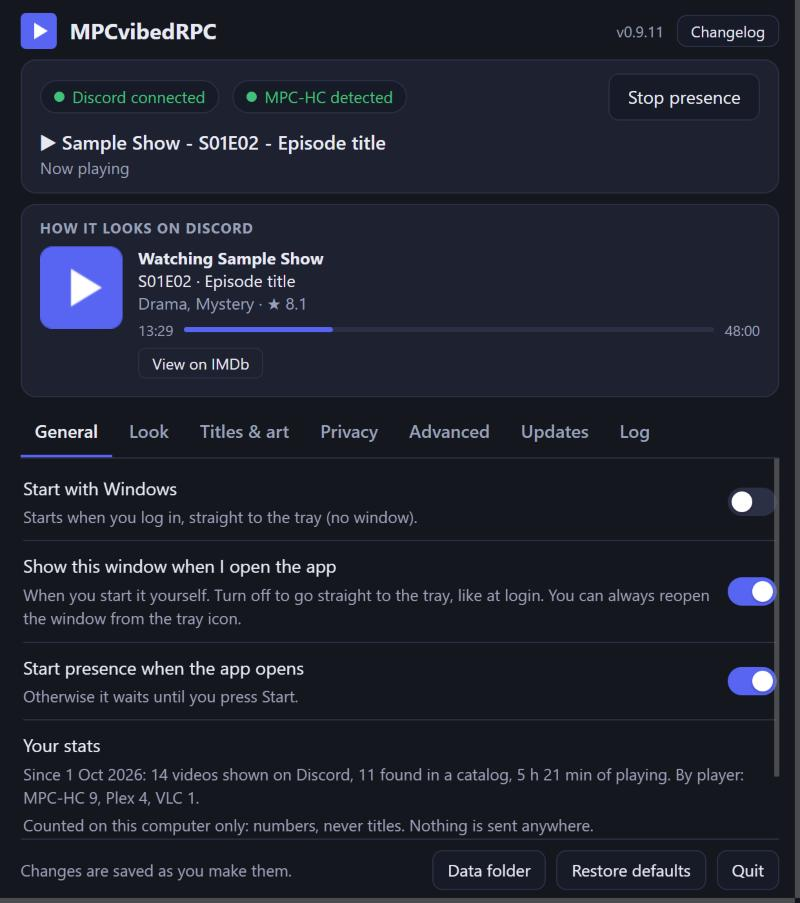
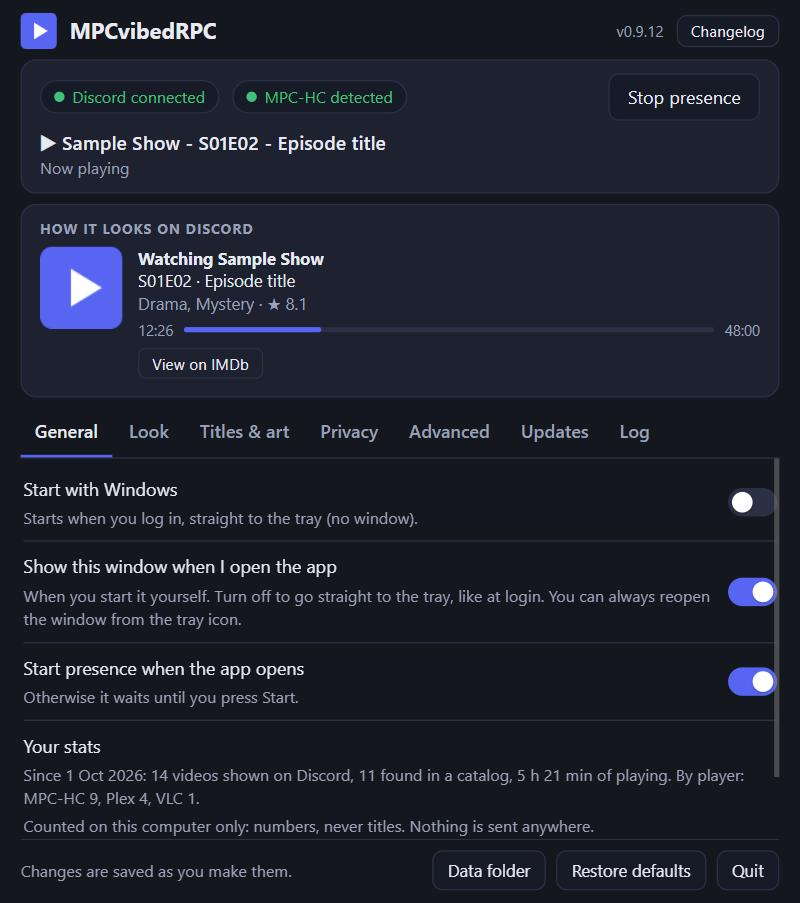
0.9.12: update notes laid out, and a check at start (#20)
- The Updates tab shows only the release's own notes (no title, no Get it / Good to
  know sections) and lays them out: paragraphs, bullet points, bold, code. Built from
  text nodes, never as HTML.
- The first update check runs 5 seconds after start (was 20) and is retried a minute
  later if it fails (a copy started at login may have no network yet); the window's
  status poll now carries a found update, so an open window shows it at once.

diff --git a/internal/assets/ui.html b/internal/assets/ui.html
@@ -60,6 +60,8 @@
   .field label.line { display: flex; gap: 10px; align-items: center; justify-content: space-between; }
   .help { color: var(--muted); font-size: 12.5px; margin-top: 3px; }
   .help.bad { color: var(--bad); }
+  .notes p { margin: 6px 0; } .notes ul { margin: 4px 0 8px; padding-left: 20px; } .notes li { margin: 3px 0; }
+  .notes code { font-family: Consolas, ui-monospace, monospace; font-size: 12px; background: var(--field); border: 1px solid var(--line); border-radius: 4px; padding: 0 4px; }
   input[type=text], input[type=number], input[type=password], select, textarea {
     font: inherit; color: var(--text); background: var(--field); border: 1px solid var(--line); border-radius: 8px; padding: 6px 9px; width: 100%; max-width: 100%;
   }
@@ -527,6 +529,7 @@
     const t = $('toggle'); t.textContent = s.running ? 'Stop presence' : 'Start presence'; t.className = s.running ? '' : 'primary';
     $('mpcHelp').classList.toggle('hidden', !(s.running && !s.mpc));
     const hint = $('playerHint'); hint.textContent = s.hint || ''; hint.classList.toggle('hidden', !s.hint);
+    if (s.update && s.update.newer && s.update.latest !== updShown && $('installUpd').disabled === false) showUpdate(s.update, false);
   }
 
   function closeWindow() { document.body.innerHTML = '<main><p>MPCvibedRPC has quit. You can close this window.</p></main>'; try { window.close(); } catch (_) {} }
@@ -576,6 +579,50 @@
       if (r.settingsChanged) { try { fill(await api('state')); } catch (_) {} } // the mpv name or VLC's password may have been taken over
     } catch (e) { $('webMsg').textContent = e.message; }
   };
+  // Release notes as GitHub writes them (Markdown), shown with their paragraphs, bullet points, bold and code. Built
+  // from text nodes only, so nothing in the notes can act as HTML.
+  function notesOf(md) {
+    const box = el('div', { className: 'notes' });
+    const inline = (text) => {
+      const out = el('span');
+      text.replace(/\[([^\]]+)\]\([^)]*\)/g, '$1').split(/(\*\*[^*]+\*\*|`[^`]+`)/).forEach((part) => {
+        if (/^\*\*[^*]+\*\*$/.test(part)) out.append(el('b', { textContent: part.slice(2, -2) }));
+        else if (/^`[^`]+`$/.test(part)) out.append(el('code', { textContent: part.slice(1, -1) }));
+        else if (part) out.append(document.createTextNode(part));
+      });
+      return out;
+    };
+    let list = null, para = null;
+    for (const raw of String(md || '').replace(/\r\n/g, '\n').split('\n')) {
+      const line = raw.trim();
+      const item = /^[-*] +(.*)$/.exec(line);
+      if (!line) { list = para = null; continue; }
+      if (item) {
+        if (!list) { list = el('ul'); box.append(list); para = null; }
+        list.append(el('li', {}, inline(item[1])));
+        continue;
+      }
+      const head = /^#{1,6} +(.*)$/.exec(line);
+      if (head) { list = para = null; box.append(el('p', {}, el('b', { textContent: head[1] }))); continue; }
+      if (list && /^\s{2,}/.test(raw)) { list.lastChild.append(document.createTextNode(' '), inline(line)); continue; }
+      list = null;
+      if (!para) { para = el('p'); box.append(para); } else para.append(document.createTextNode(' '));
+      para.append(inline(line));
+    }
+    return box;
+  }
+  function setNotes(md) { const n = $('updNotes'); n.textContent = ''; if (md) n.append(notesOf(md)); }
+  // A newer version: shown once per version, whether the window found it (Check now) or the program did in the
+  // background (at start, then daily) while the window is open.
+  let updShown = '';
+  function showUpdate(u, explain) {
+    if (!u || !u.newer) return;
+    updShown = u.latest;
+    $('updText').textContent = 'Version ' + u.latest + ' is available (you have ' + u.current + ').';
+    setNotes(u.notes);
+    offerUpdate(u, explain);
+    flagUpdate();
+  }
   $('checkUpd').onclick = async () => {
     $('updText').textContent = 'Checking…'; $('installUpd').classList.add('hidden'); $('pageUpd').classList.add('hidden'); $('updNotes').textContent = '';
     try {
@@ -583,7 +630,7 @@
       const u = await api('update-check', {});
       if (!u.configured) $('updText').textContent = 'Enter an update source below first.';
       else if (u.error) $('updText').textContent = u.error;
-      else if (u.newer) { $('updText').textContent = 'Version ' + u.latest + ' is available (you have ' + u.current + ').'; $('updNotes').textContent = u.notes || ''; offerUpdate(u, true); }
+      else if (u.newer) showUpdate(u, true);
       else $('updText').textContent = 'You are up to date (' + u.current + ').';
     } catch (e) { $('updText').textContent = 'Could not check: ' + e.message; }
   };
@@ -619,7 +666,7 @@
   };
   $('quit').onclick = async () => { if (await ask('Quit MPCvibedRPC?', 'Discord will stop showing what you are watching' + (osText() ? (model.tray ? ', and the menu bar icon will be removed.' : ', and the program will close.') : ', and the tray icon will be removed.'), 'Quit', true)) { try { await api('quit', {}); } catch (_) {} closeWindow(); } };
 
-  api('state').then((m) => { fill(m); paint(m.status); if (m.app.seenVersion !== m.version) showNews(m.version); if (m.update && m.update.newer) { $('updText').textContent = 'Version ' + m.update.latest + ' is available.'; offerUpdate(m.update, false); flagUpdate(); } })
+  api('state').then((m) => { fill(m); paint(m.status); if (m.app.seenVersion !== m.version) showNews(m.version); showUpdate(m.update, false); })
     .catch((e) => { document.body.innerHTML = '<main><p>Could not reach the program: ' + e.message + '</p></main>'; });
   setInterval(poll, 1000); setInterval(pollLog, 3000);
 })();

diff --git a/cmd/mpcvibedrpc/main.go b/cmd/mpcvibedrpc/main.go
@@ -28,7 +28,7 @@ import (
 )
 
 // version is set at build time (-ldflags "-X main.version=...").
-var version = "0.9.11"
+var version = "0.9.12"
 
 const preferredPort = 47654
 
@@ -266,6 +266,19 @@ func run() error {
 		}
 	}
 
+	// statusNow is what the window polls: the engine's status, and a newer version once a check has found one.
+	type status struct {
+		engine.Status
+		Update *updater.Info `json:"update,omitempty"`
+	}
+	statusNow := func() status {
+		s := status{Status: eng.Status()}
+		if u := getUpdate(); u != nil && u.Newer {
+			s.Update = u
+		}
+		return s
+	}
+
 	quit := func() {
 		quitOnce.Do(func() {
 			go func() {
@@ -322,7 +335,7 @@ func run() error {
 
 	handlers := map[string]server.Handler{
 		"state":  {Get: true, Fn: func(*jsonx.Obj) (any, error) { return fullState(), nil }},
-		"status": {Get: true, Fn: func(*jsonx.Obj) (any, error) { return eng.Status(), nil }},
+		"status": {Get: true, Fn: func(*jsonx.Obj) (any, error) { return statusNow(), nil }},
 		"log":    {Get: true, Fn: func(*jsonx.Obj) (any, error) { return map[string]any{"lines": lg.last(200)}, nil }},
 		"diagnostics": {Get: true, Fn: func(*jsonx.Obj) (any, error) {
 			return map[string]any{"text": diag.Report(diag.Input{
@@ -532,9 +545,15 @@ func run() error {
 		openWindow()
 	}
 
-	time.AfterFunc(20*time.Second, func() {
+	// Look for a new version shortly after starting (an open window shows it as soon as it is known), then daily. A copy
+	// started at login may have no network yet, so a failed first check is tried again a minute later.
+	time.AfterFunc(5*time.Second, func() {
 		if _, err := checkUpdates(false); err != nil {
-			log("WARN", "Update check failed: "+err.Error())
+			time.AfterFunc(time.Minute, func() {
+				if _, err := checkUpdates(false); err != nil {
+					log("WARN", "Update check failed: "+err.Error())
+				}
+			})
 		}
 	})
 	go func() {

diff --git a/internal/updater/updater.go b/internal/updater/updater.go
@@ -218,7 +218,7 @@ func Check(client *http.Client, repo, current string) (*Info, error) {
 		latest = latest[1:]
 	}
 	info := &Info{Configured: true, Current: current, Latest: latest, Newer: Compare(current, latest) < 0, Page: rel.HTMLURL}
-	notes := []rune(rel.Body)
+	notes := []rune(whatsNew(rel.Body))
 	if len(notes) > 1500 {
 		notes = notes[:1500]
 	}
@@ -332,4 +332,30 @@ func SwapAndRestart(exe, next string, start func(exe string, args ...string) err
 func CleanupOld(exe string) {
 	_ = os.Remove(exe + ".old")
 	_ = os.Remove(exe + ".new")
+}
+
+// whatsNew is the part of a release's notes about the release itself, for the Updates tab: without the title line,
+// and up to the first "###" section (how to get it, notes for every release) or quoted banner. Notes without that
+// shape are kept whole.
+func whatsNew(body string) string {
+	lines := strings.Split(strings.ReplaceAll(body, "\r\n", "\n"), "\n")
+	var out []string
+	titled := false
+	for _, l := range lines {
+		t := strings.TrimSpace(l)
+		if !titled && t != "" {
+			titled = true
+			if strings.HasPrefix(t, "# ") || strings.HasPrefix(t, "## ") {
+				continue
+			}
+		}
+		if strings.HasPrefix(t, "### ") || strings.HasPrefix(t, "> ") {
+			break
+		}
+		out = append(out, l)
+	}
+	if s := strings.TrimSpace(strings.Join(out, "\n")); s != "" {
+		return s
+	}
+	return strings.TrimSpace(body)
 }

diff --git a/tools/mkrsrc/main.go b/tools/mkrsrc/main.go
@@ -2,7 +2,7 @@
 // finished MPCvibedRPC.exe has an icon in Explorer and proper details in Task Manager. The Go linker picks the
 // .syso up automatically when it sits next to the main package. Standard library only.
 //
-//	go run ./tools/mkrsrc -icon internal/assets/icon.ico -version 0.9.11 -out cmd/mpcvibedrpc/rsrc_windows_amd64.syso
+//	go run ./tools/mkrsrc -icon internal/assets/icon.ico -version 0.9.12 -out cmd/mpcvibedrpc/rsrc_windows_amd64.syso
 package main
 
 import (
@@ -20,7 +20,7 @@ var le = binary.LittleEndian
 
 func main() {
 	icon := flag.String("icon", "internal/assets/icon.ico", "icon file")
-	version := flag.String("version", "0.0.0", "version, e.g. 0.9.11")
+	version := flag.String("version", "0.0.0", "version, e.g. 0.9.12")
 	out := flag.String("out", "rsrc_windows_amd64.syso", "output object file")
 	flag.Parse()
 	ico, err := os.ReadFile(*icon)

diff --git a/internal/store/store.go b/internal/store/store.go
@@ -48,7 +48,7 @@ func dataDirNamed(name string) string {
 type App struct {
 	AutoStart     bool   `json:"autoStart"`     // run at Windows login (the registry entry is the source of truth; this mirrors it)
 	StartPresence bool   `json:"startPresence"` // begin sending presence as soon as the app opens
-	CheckUpdates  bool   `json:"checkUpdates"`  // look for a newer release now and then
+	CheckUpdates  bool   `json:"checkUpdates"`  // look for a newer release at start, then daily
 	UpdateRepo    string `json:"updateRepo"`    // "owner/repo" on GitHub that publishes releases with MPCvibedRPC.exe
 	WelcomeSeen   bool   `json:"welcomeSeen"`   // the first-run welcome card was dismissed (existing installs count as having seen it)
 	OpenWindow    bool   `json:"openWindow"`    // show the window when the program is started by hand (it always starts in the tray at login)

diff --git a/internal/updater/updater_test.go b/internal/updater/updater_test.go
@@ -237,3 +237,18 @@ func TestCheckFallsBackToTheWebsite(t *testing.T) {
 		t.Fatalf("both refused: %v", err)
 	}
 }
+
+func TestWhatsNew(t *testing.T) {
+	notes := "## MPCvibedRPC 9.9.9\r\n\r\n**Sample feature.**\r\n\r\n- One thing.\r\n- Another.\r\n\r\n### Get it\r\n- Download it.\r\n\r\n### Good to know\r\n- More."
+	if got := whatsNew(notes); got != "**Sample feature.**\n\n- One thing.\n- Another." {
+		t.Errorf("got %q", got)
+	}
+	if got := whatsNew("## Title\n\nText.\n\n> **Banner.** Words.\n\n### Get it\n"); got != "Text." {
+		t.Errorf("banner: %q", got)
+	}
+	for _, plain := range []string{"test release", "Line one\nLine two", "### Only a section"} {
+		if got := whatsNew(plain); got != plain {
+			t.Errorf("%q became %q", plain, got)
+		}
+	}
+}

diff --git a/docs/development.md b/docs/development.md
@@ -6,8 +6,8 @@ How MPCvibedRPC is built, tested and released. For using it, see the [README](..
 The program is written in Go and uses only the standard library: one small file (about 8 MB, a few MB of memory while
 running), no runtime, nothing to install. Building needs [Go 1.24+](https://go.dev/dl/) and no internet beyond that.
 
-    go run ./tools/mkrsrc -version 0.9.11 -out cmd/mpcvibedrpc/rsrc_windows_amd64.syso    (icon + version details, optional)
-    go build -trimpath -ldflags "-H=windowsgui -s -w -X main.version=0.9.11" -o MPCvibedRPC.exe ./cmd/mpcvibedrpc
+    go run ./tools/mkrsrc -version 0.9.12 -out cmd/mpcvibedrpc/rsrc_windows_amd64.syso    (icon + version details, optional)
+    go build -trimpath -ldflags "-H=windowsgui -s -w -X main.version=0.9.12" -o MPCvibedRPC.exe ./cmd/mpcvibedrpc
 
 `-H=windowsgui` makes it a windowed program, so no console flashes up. You can build from any OS (`GOOS=windows`).
 Discord's local protocol is implemented in `internal/discord`.
@@ -29,7 +29,7 @@ run-at-login entry), and `MPCRPC_BROWSER` names the browser to show the window i
 ## Releasing
 To publish a version:
 
-1. `git tag v0.9.11 && git push --tags` - the workflow in `.github/workflows/release.yml` runs the tests, builds the
+1. `git tag v0.9.12 && git push --tags` - the workflow in `.github/workflows/release.yml` runs the tests, builds the
    programs on Windows, Linux and macOS runners, smoke-tests each of them (Windows: tray, Discord pipe, autostart,
    self-update; macOS and Linux: the API, login item, player setup, a second start, and on macOS opening the app like
    the Finder does) and attaches them with their `.sha256` files to a release. The tag is the version.

diff --git a/CLAUDE.md b/CLAUDE.md
@@ -104,7 +104,7 @@ the other MPRIS players need nothing.
 ```bash
 go vet ./...
 go test -count=1 ./...
-go build -trimpath -ldflags "-H=windowsgui -s -w -X main.version=0.9.11" -o dist/MPCvibedRPC.exe ./cmd/mpcvibedrpc
+go build -trimpath -ldflags "-H=windowsgui -s -w -X main.version=0.9.12" -o dist/MPCvibedRPC.exe ./cmd/mpcvibedrpc
 ```
 - CI (`.github/workflows/ci.yml`): Linux runs vet, a **gofmt gate**, and the tests with `-race`; Windows and macOS run
   the tests. A push or PR that changes only documentation (top-level `.md` files, `docs/`, issue templates,
@@ -181,7 +181,8 @@ README is for people: short, scannable, one emoji per section heading; details g
    `gh pr merge <n> --rebase --delete-branch`.
 2. Version bump: replace the next version with the one after it, then the current with the next, in
    `.github/workflows/ci.yml`, `.github/workflows/release.yml`, `docs/development.md`, `cmd/mpcvibedrpc/main.go`,
-   `tools/ci/fake-http.ps1`, `tools/ci/smoke.ps1`, `tools/mkrsrc/main.go` and the placeholder in `bug_report.yml`.
+   `tools/ci/fake-http.ps1`, `tools/ci/smoke.ps1`, `tools/mkrsrc/main.go` and the placeholder in `bug_report.yml`. The
+   `vX.Y.Z` examples in `release.yml` and `docs/development.md` count too (a plain number search skips the `v`).
    Rewrite the top of `.github/release-notes.md` (it is the release body) and add the version's entry at the top of
    `internal/assets/changelog.json` (`TestChangelog` fails until its newest entry matches `main.go`). Retake the
    README screenshots (`docs/images/window-*.jpg`) from the new build, as `docs/development.md` > Screenshots describes

diff --git a/.github/release-notes.md b/.github/release-notes.md
@@ -1,11 +1,11 @@
-## MPCvibedRPC 0.9.11
+## MPCvibedRPC 0.9.12
 
-**Better episode titles for anime.**
+**Update checks, tidied up.**
 
-- Anime episode titles now come from **MyAnimeList** first. It numbers episodes the way anime files do, so episode 1,100 of a long-running show is simply episode 1,100.
-- Long-running anime no longer show the title of a neighbouring episode (one catalog files specials among the episodes, which shifted the count), or no title at all (another picked a live-action series of the same name).
-- When a catalog does not answer in time, the episode title is looked up again while the episode plays, and appears on Discord as soon as it is found.
-- Titles saved by earlier versions that may be off are looked up again once.
+- New versions are looked for a few seconds after the program starts, as well as once a day. An open settings window now shows a new version as soon as it is found, without reopening it.
+- The Updates tab shows what is new in an update with its paragraphs and bullet points, instead of one long run of text.
+
+Updating from 0.9.11 or earlier, the Updates tab still shows these notes as plain text one last time; from 0.9.12 on they are laid out properly.
 
 ### Get it
 - **Windows:** download **`MPCvibedRPC.exe`** and run it; there is nothing to install. An earlier version can install this one from its Updates tab; your settings are kept. Needs Windows 10/11.

diff --git a/docs/config.md b/docs/config.md
@@ -112,6 +112,6 @@ These belong to the program itself and live under `app` in `config.json`. They a
 | `autoStart` | `false` | Start when you log in, straight to the tray (macOS and Linux: in the background). The real switch is the login item itself: the registry's Run key on Windows, a LaunchAgent on macOS, an autostart entry in `~/.config/autostart` on Linux. |
 | `startPresence` | `true` | Begin sending presence as soon as the app opens. |
 | `openWindow` | `true` | Show the window when you open the app yourself. `false` goes straight to the tray (macOS and Linux: the background), like at login. |
-| `checkUpdates` | `true` | Look for a newer release now and then. |
+| `checkUpdates` | `true` | Look for a newer release a few seconds after the program starts, then once a day. |
 | `updateRepo` | `CptPakundo/MPCvibedRPC` | The GitHub repository (`owner/repo`) that publishes releases. |
 | `seenVersion` | (none) | The version whose changes the window last showed. Written by the window; a different version (an update, a new install) shows its changes once. Not in the settings window. |

diff --git a/README.md b/README.md
@@ -148,7 +148,7 @@ Every setting with its default is in [docs/config.md](docs/config.md).
 <details>
 <summary><b>Updates</b></summary>
 
-The program checks for new versions once a day (switch it off on the Updates tab). On Windows and Linux,
+The program checks for new versions when it starts and once a day (switch it off on the Updates tab). On Windows and Linux,
 **Install** downloads the new version, checks it and restarts; on macOS the Updates tab links to the download. After an
 update the window shows what's new once; the **Changelog** button at the top shows every version.
 </details>
